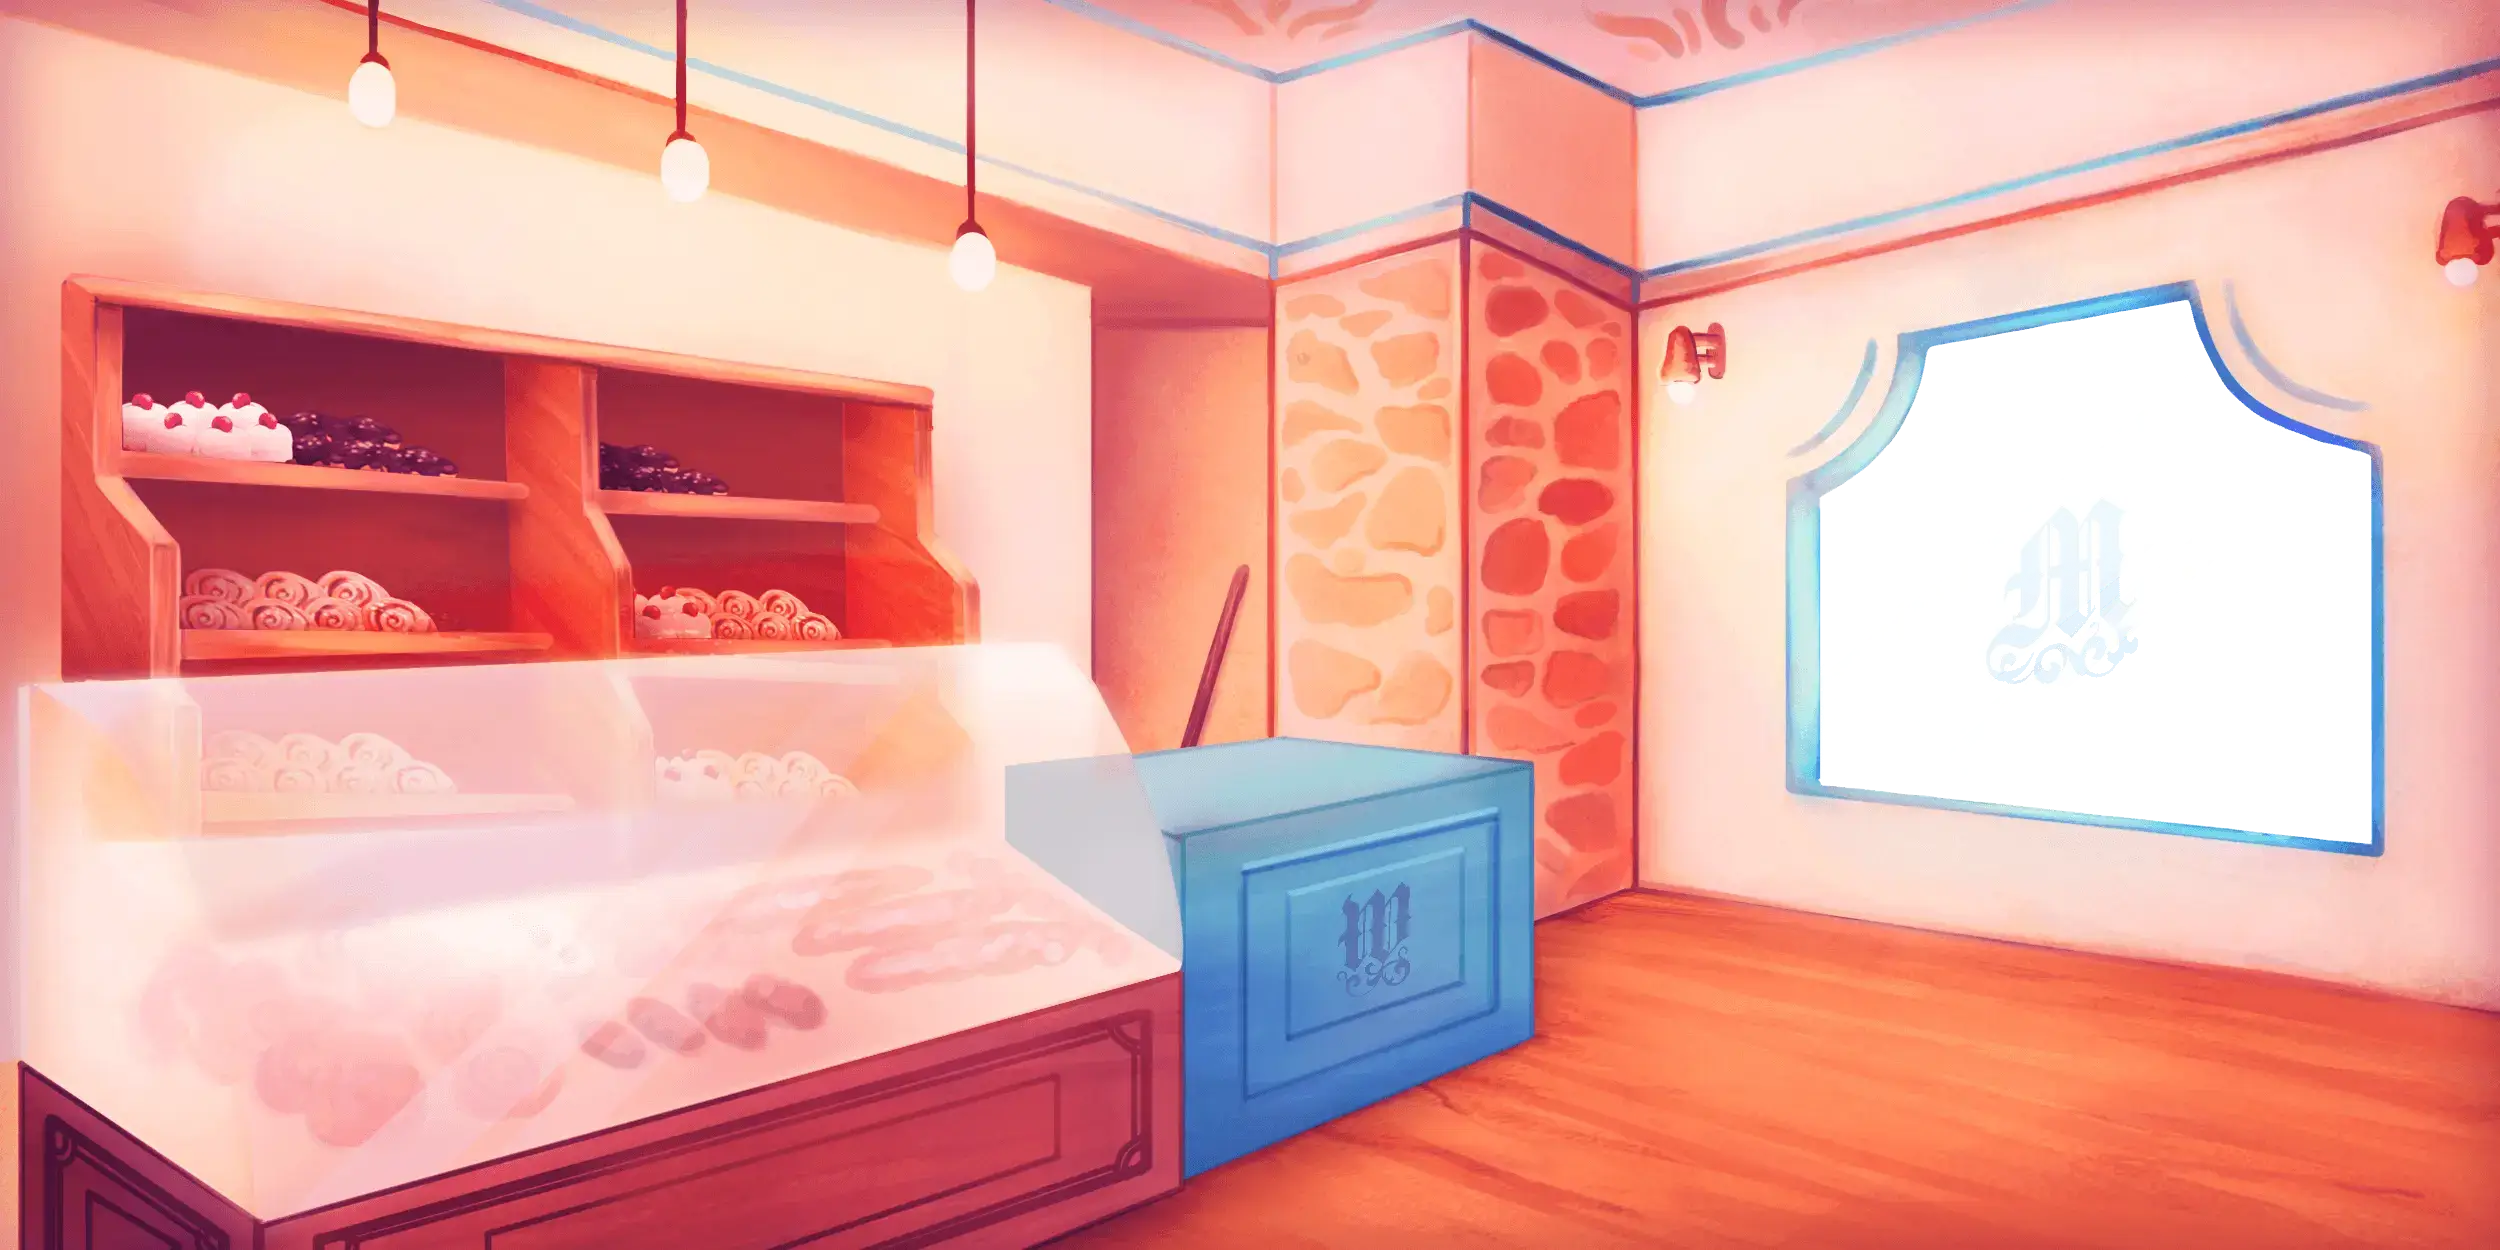
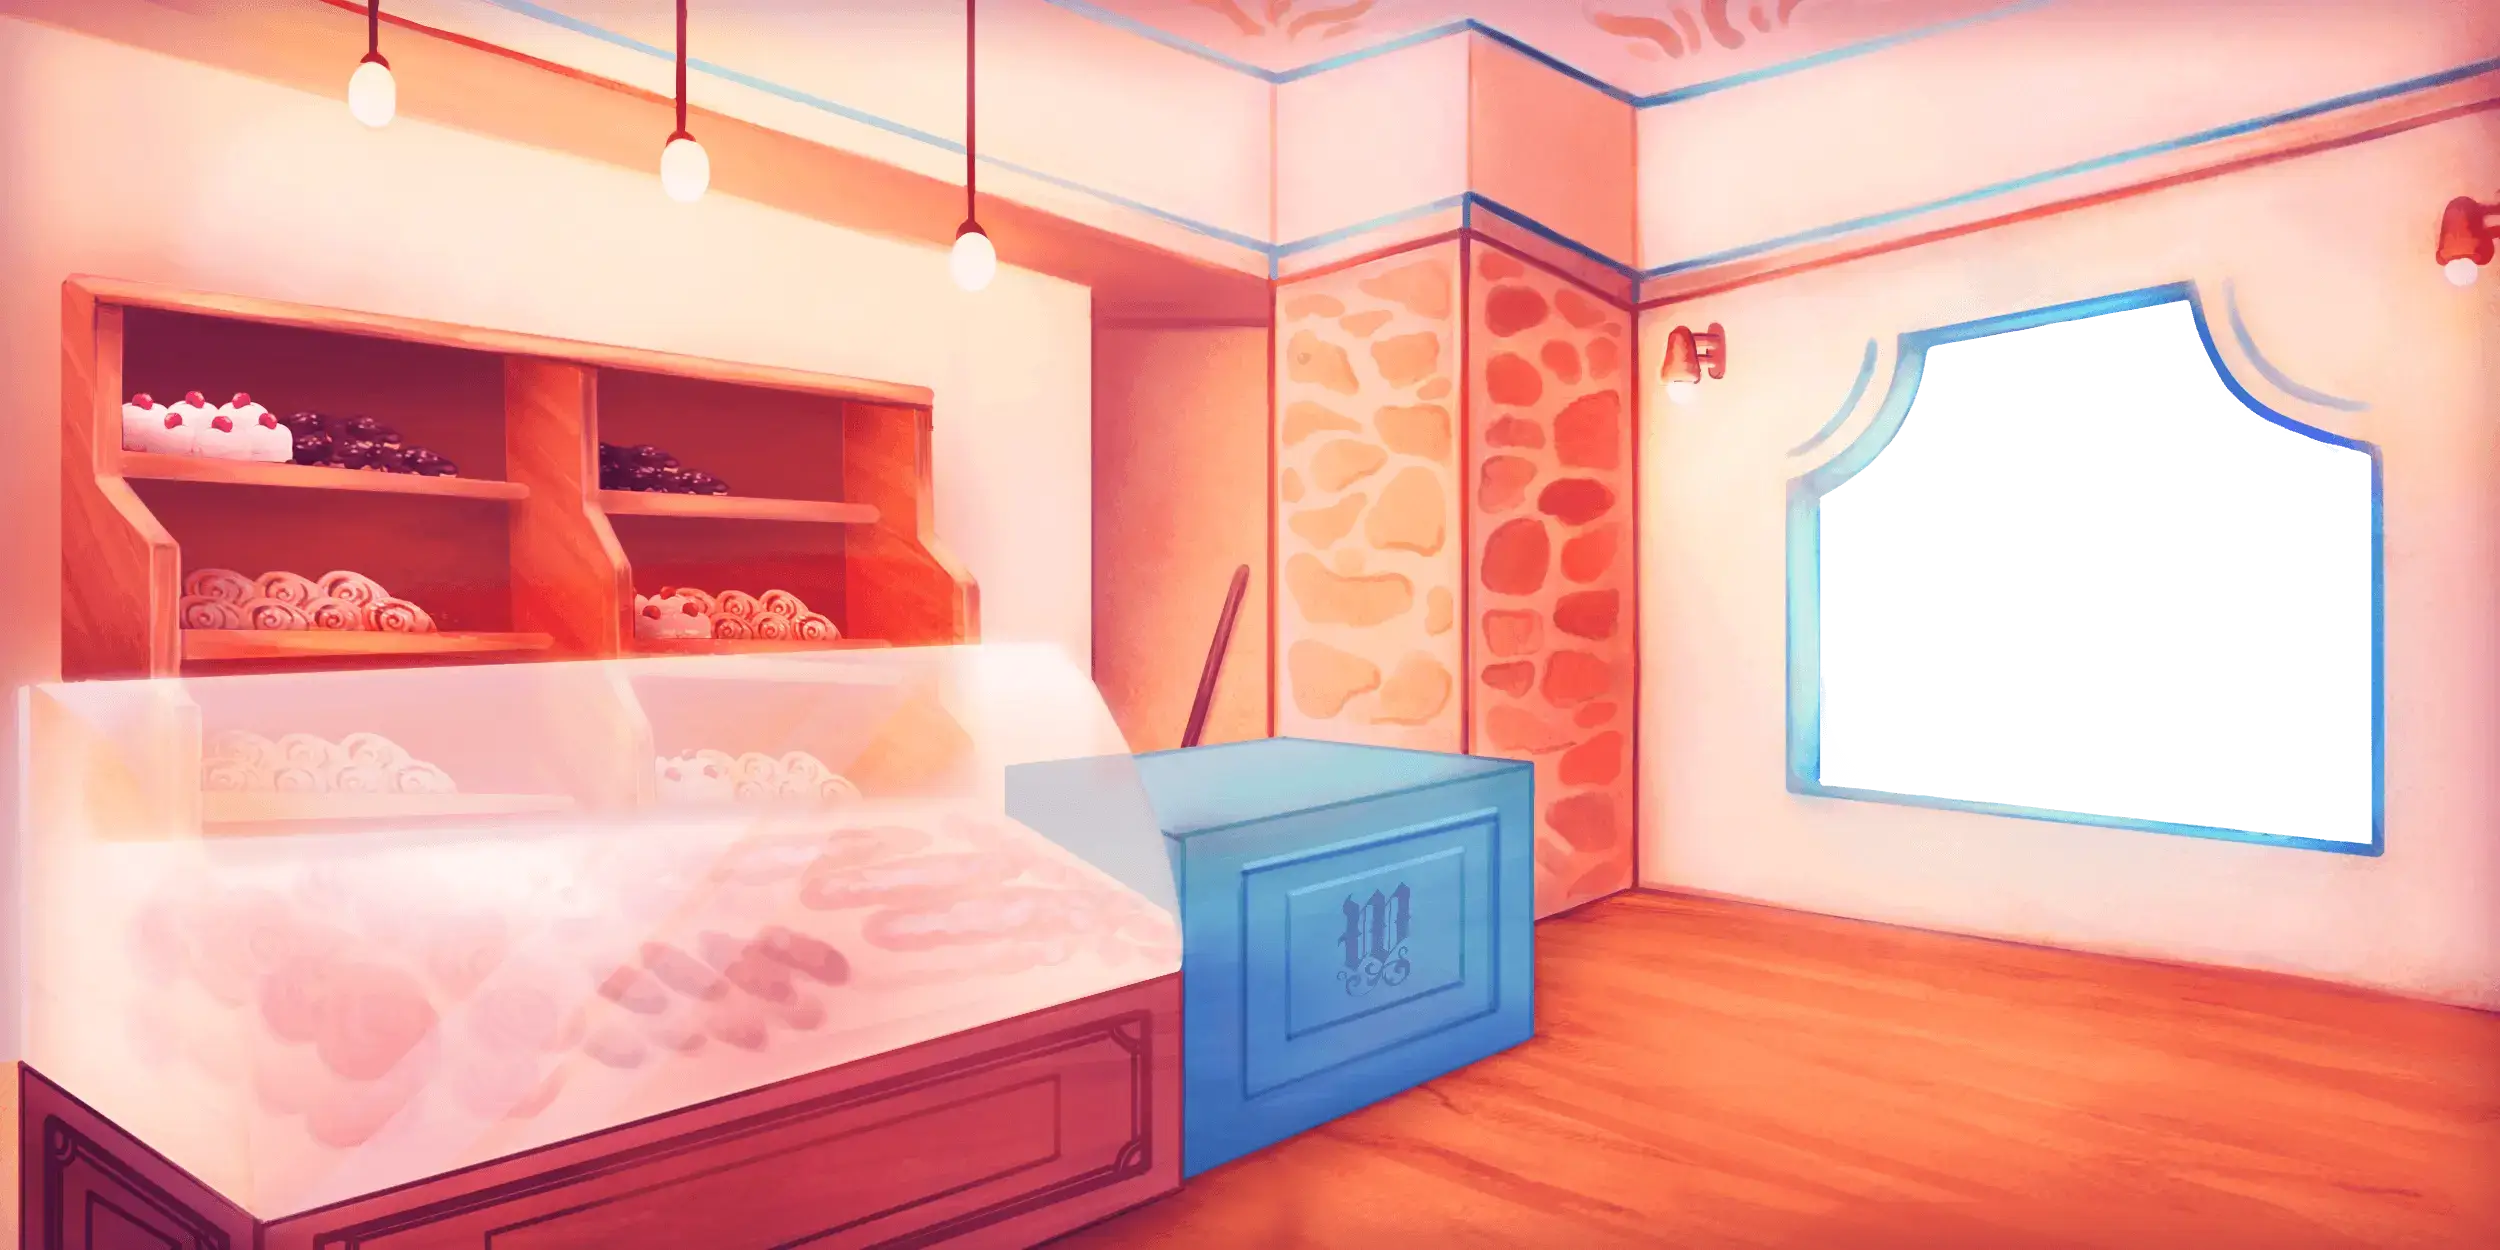
MADE-WITH-LOVE-bg-improvements

Changed region(s): [[0.0936, 0.624, 0.468, 0.8424], [0.8112, 0.468, 0.8736, 0.5304]]

diff --git a/js/madeWithLove.js b/js/madeWithLove.js
@@ -7,10 +7,8 @@ const madeWithLoveSection = document.querySelector('[data-made-with-love-section
 const lottieAnimationWrapper = madeWithLoveSection.querySelector('[data-mvl-lottie]');
 const cookRightHandElement = madeWithLoveSection.querySelector("[data-mvl-cook-right-hand]");
 const mvlBgElement = madeWithLoveSection.querySelector("[data-mvl-bg]");
-const mvlTreesOutsideElement = madeWithLoveSection.querySelector("[data-mvl-trees-outside]");
 const mvlTableElement = madeWithLoveSection.querySelector("[data-mvl-table]");
 const mvlCookToolElement = madeWithLoveSection.querySelector("[data-mvl-cook-tool]");
-const mvlWavingCharacterElement = madeWithLoveSection.querySelector("[data-mvl-waving-character]");
 
 // variables
 const timeBetweenLottieAnimationSequences = 1000; // milliseconds
@@ -70,9 +68,7 @@ observer.observe(madeWithLoveSection);
 
 // parallax
 const mvlBgParallax = new ElementParallax(madeWithLoveSection, mvlBgElement, { scale: 1 }, 0.25, { scale: 1.2 }, 1.75);
-const mvlTreesOutsideParallax = new ElementParallax(madeWithLoveSection, mvlTreesOutsideElement, { scale: 1 }, 0.25, { scale: 1.2 }, 1.75);
-const mvlWavingCharacterParallax = new ElementParallax(madeWithLoveSection, mvlWavingCharacterElement, { scale: 1, x: -20, y: -6 }, 0.25, { scale: 1.2, x: 14, y: 3 }, 1.75);
-const mvlTableParallax = new ElementParallax(madeWithLoveSection, mvlTableElement, { y: -1.5 }, 0.5, { y: 3 }, 2);
+const mvlTableParallax = new ElementParallax(madeWithLoveSection, mvlTableElement, { y: -1.5 }, 0.5, { y: 2 }, 2);
 const mvlCookToolParallax = new ElementParallax(madeWithLoveSection, mvlCookToolElement, { y: -4.5 }, 0.5, { y: 7.5 }, 2);
 
 document.addEventListener("DOMContentLoaded", handleParallax);
@@ -82,8 +78,6 @@ function handleParallax() {
     const currentScroll = document.documentElement.scrollTop;
   
     mvlBgParallax.apply(currentScroll);
-    mvlTreesOutsideParallax.apply(currentScroll);
-    mvlWavingCharacterParallax.apply(currentScroll);
     mvlTableParallax.apply(currentScroll);
     mvlCookToolParallax.apply(currentScroll);
   }

diff --git a/index.html b/index.html
@@ -14,14 +14,19 @@
 <body>
     <section class="made-with-love graphic-section" data-made-with-love-section>
         <div class="made-with-love__wrapper graphic-section__wrapper grain-effect blur-effect">
-            <div class="made-with-love__trees-outside" data-mvl-trees-outside>
-                <img src="./images/trees-outside.webp" alt="Trees outside that can be seen through the kitchen window on the right-hand side">
-            </div>
-            <div class="made-with-love__character" data-mvl-waving-character>
-                <img src="./images/prophy-cups-sheet-wave-with-shadow.png" class="made-with-love__character-image priority" alt="Prophy character waving">
-            </div>
             <div class="made-with-love__bg" data-mvl-bg>
-                <img src="./images/cook-kitchen.webp" alt="Kitchen of the tooth cook">
+                <div class="made-with-love__bg-trees-outside">
+                    <img src="./images/trees-outside.webp" alt="Trees outside that can be seen through the kitchen window on the right-hand side">
+                </div>
+                <div class="made-with-love__bg-character">
+                    <img src="./images/prophy-cups-sheet-wave-with-shadow.png" class="made-with-love__bg-character-image priority" alt="Prophy character waving">
+                </div>
+                <div class="made-with-love__bg-window-glass">
+                    <img src="./images/cook-kitchen-window-glass.webp" alt="Cook kitchen window glass">
+                </div>
+                <div class="made-with-love__bg-cook-kitchen">
+                    <img src="./images/cook-kitchen.webp" alt="Kitchen of the tooth cook">
+                </div>
             </div>
             <div class="made-with-love__lottie" data-mvl-lottie></div>
             <div class="made-with-love__cook-right-hand" data-mvl-cook-right-hand>

diff --git a/css/made-with-love.css b/css/made-with-love.css
@@ -26,25 +26,44 @@ body {
     aspect-ratio: 16 / 7;
 }
 
-.made-with-love__bg,
-.made-with-love__trees-outside {
+.made-with-love__bg {
+    transition: transform .3s ease;
+    position: relative;
+    top: 0;
+    left: 0;
+    width: 100%;
+    aspect-ratio: 16 / 8;
+}
+
+.made-with-love__bg-trees-outside,
+.made-with-love__bg-cook-kitchen {
+    position: absolute;
     top: 0;
     left: 0;
     width: 100%;
     height: auto;
-    transition: transform .3s ease;
 }
 
-.made-with-love__character {
-    right: 6%;
-    top: 47%;
+/* .made-with-love__bg-cook-kitchen {
+    background-color: black;
+} */
+
+.made-with-love__bg-character {
+    position: absolute;
+    right: 9%;
+    top: 41%;
     width: 16%;
     overflow: hidden;
-    /* transform: translate(-20%, -6%);
-    transform: translate(14%, 3%); */
 }
 
-.made-with-love__character-image.priority {
+.made-with-love__bg-window-glass {
+    position: absolute;
+    top: 24%;
+    right: 5%;
+    width: 22%;
+}
+
+.made-with-love__bg-character-image.priority {
     width: 1000%;
     animation: animate-character calc(var(--MADE-WITH-LOVE-SEC-character-anim-duration) * 1ms) steps(10) infinite;
 }
@@ -128,17 +147,20 @@ body {
     .made-with-love__wrapper {
         aspect-ratio: 16 / 12;
     }
-    .made-with-love__bg,
-    .made-with-love__trees-outside {
+    .made-with-love__bg {
         top: -2%;
         width: 142%;
         aspect-ratio: 16 / 9;
-        left: -18%;
+        left: -26%;
     }
-    .made-with-love__character {
-        right: -9%;
-        top: 42%;
-        width: 24%;
+    .made-with-love__bg-character {
+        right: 10%;
+        top: 32%;
+        width: 18%;
+    }
+    .made-with-love__bg-window-glass {
+        top: 21%;
+        width: 22%;
     }
     .made-with-love__table {
         bottom: -4%;
